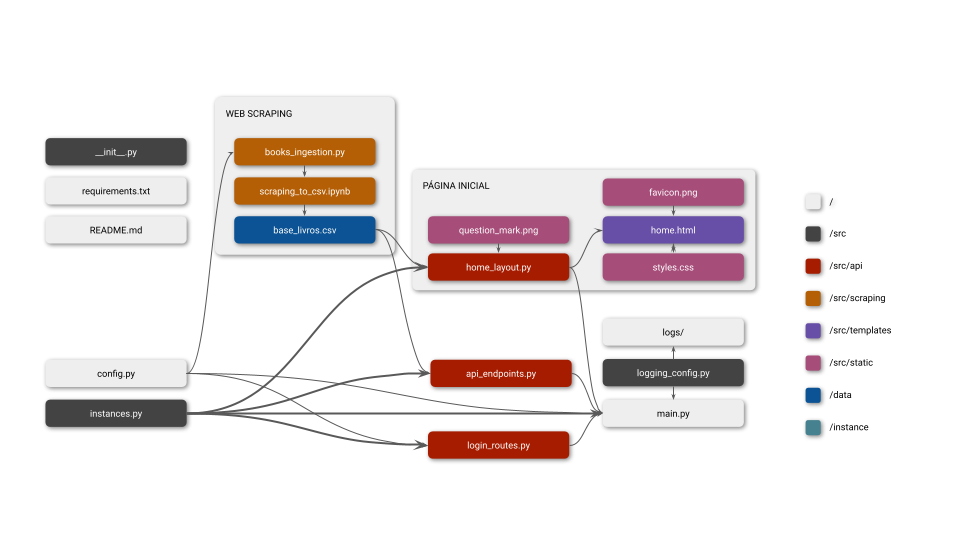
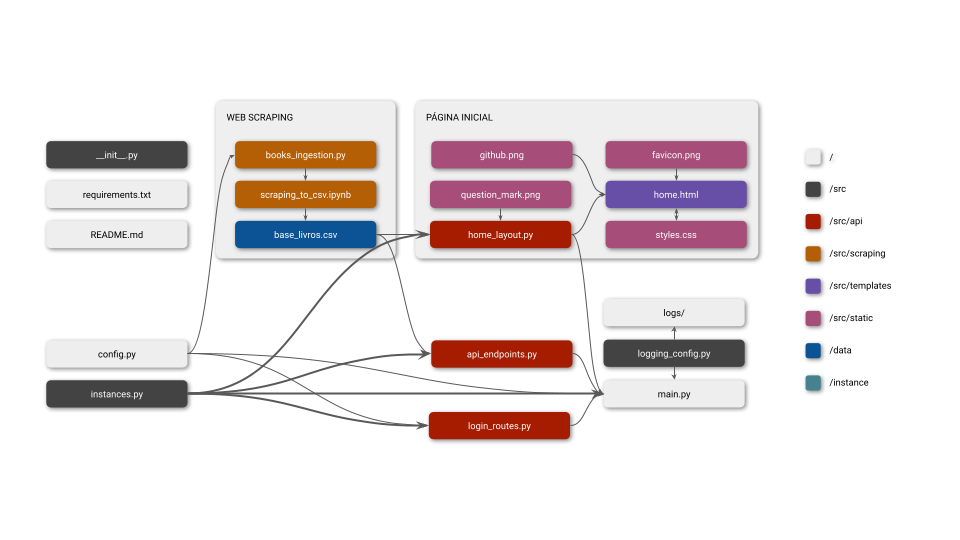
melhoria do layout e conexao com supabase no instance

Changed region(s): [[0.0312, 0.1778, 0.9375, 0.8593]]

diff --git a/src/api/api_endpoints.py b/src/api/api_endpoints.py
@@ -6,7 +6,8 @@ from flask import request, jsonify
 from flask_jwt_extended import jwt_required
 import pandas as pd
 from datetime import datetime
-from ..instances import bp
+from zoneinfo import ZoneInfo
+from ..instances import bp, supabase
 
 # ----------------------------------------------------------------------------------------------- #
 # Ler a base de dados
@@ -279,6 +280,8 @@ def get_books_price_range():
         else:
             return jsonify({'message': 'Formato de valor inválido'}), 500
     
+    df_query = df_query.sort_values('price')
+
     if df_query.shape[0] == 0:
         return jsonify({'message': 'Nenhum livro encontrado'}), 404
     
@@ -288,50 +291,52 @@ def get_books_price_range():
 # Verificar status da API e conectividade com os dados
 # ----------------------------------------------------------------------------------------------- #
 
+def check_database(supabase):
+    try:
+        supabase.table("api_request_logs").select("id").limit(1).execute()
+        return True
+    except Exception:
+        return False
+    
 @bp.route('/api/v1/health', methods=['GET'])
 def get_api_health():
     """
-    Verifica o status da API e a disponibilidade dos dados em memória.
+    Verifica o status da API e de suas dependências.
     ---
     tags:
       - API Health
     responses:
       200:
-        description: API e dependências saudáveis
-        content:
-          application/json:
-            example:
-              status: ok
-              database: ok
-              version: "1.0.0"
-              environment: development
+        description: API saudável
       503:
         description: API indisponível ou com dependências falhando
-        content:
-          application/json:
-            example:
-              status: degraded
-              database: error
-              version: "1.0.0"
-              environment: development
     """
+    tz_sp = ZoneInfo("America/Sao_Paulo")
+
     health_status = {
         "status": "ok",
         "api": "running",
+        "database": "ok",
         "data_loaded": False,
         "rows": 0,
-        "checked_at": datetime.utcnow().isoformat() + "Z"
+        "checked_at": datetime.now(tz_sp).isoformat(),
+        "version": "1.0.0",
+        "environment": "development"
     }
 
-    try:
-        if df is not None:
-            health_status["rows"] = df.shape[0]
-            health_status["data_loaded"] = not df.empty
-    except Exception as e:
-        health_status["status"] = "error"
-        health_status["error"] = str(e)
-        return jsonify(health_status), 500
+    http_status = 200
 
-    return jsonify(health_status), 200
+    # 🔹 Dados em memória
+    if df is not None and not df.empty:
+        health_status["data_loaded"] = True
+        health_status["rows"] = df.shape[0]
+    else:
+        health_status["status"] = "degraded"
 
+    # 🔹 Supabase
+    if not check_database(supabase):
+        health_status["database"] = "error"
+        health_status["status"] = "degraded"
+        http_status = 503
 
+    return jsonify(health_status), http_status

diff --git a/src/instances.py b/src/instances.py
@@ -5,11 +5,31 @@
 from flasgger import Swagger
 from flask import Blueprint
 from flask_jwt_extended import JWTManager
+from supabase import create_client
+
+from config import Config
 
 # ----------------------------------------------------------------------------------------------- #
 # Inicializar instâncias
 # ----------------------------------------------------------------------------------------------- #
 
-swagger = Swagger()
 bp = Blueprint('main', __name__)
 jwt = JWTManager()
+
+swagger = Swagger(
+    template = {
+        "securityDefinitions": {
+            "BearerAuth": {
+                "type": "apiKey",
+                "name": "Authorization",
+                "in": "header",
+                "description": "Digite: Bearer <seu_token>"
+            }
+        }
+    })
+
+# ----------------------------------------------------------------------------------------------- #
+# Conectar banco de dados
+# ----------------------------------------------------------------------------------------------- #
+
+supabase = create_client(Config.SUPABASE_URL, Config.SUPABASE_KEY)

diff --git a/src/api/login_routes.py b/src/api/login_routes.py
@@ -4,15 +4,10 @@
 
 from flask import request, jsonify, g
 from flask_jwt_extended import create_access_token, jwt_required, get_jwt_identity
-from supabase import create_client
 from werkzeug.security import generate_password_hash, check_password_hash
 from functools import wraps
 
-from ..instances import bp
-from config import Config
-
-# configurações da supabase (para armazenar os logins)
-supabase = create_client(Config.SUPABASE_URL, Config.SUPABASE_KEY)
+from ..instances import bp, supabase
 
 # ----------------------------------------------------------------------------------------------- #
 # Registrar usuário

diff --git a/main.py b/main.py
@@ -9,11 +9,10 @@ from flask import Flask
 import os
 
 from src.api import api_endpoints, home_layout, login_routes
-from src.instances import bp, swagger, jwt
+from src.instances import bp, swagger, jwt, supabase
 from src.logging_config import setup_logging, register_request_logging
 
-from config import Config, BASE_DIR, url_books
-from src.api.login_routes import supabase
+from config import Config, BASE_DIR
 
 # ----------------------------------------------------------------------------------------------- #
 # Inicializações

diff --git a/README.md b/README.md
@@ -13,6 +13,7 @@ Este aplicativo é uma **API pública** que fornece dados para realizar análise
 - **Sistema de autenticação:**<br>Baseado em JWT (JSON Web Tokens). O usuário cria suas credenciais (login e senha) e esses dados de autenticação são persistidos no Supabase (PostgreSQL). Ao realizar a autenticação, a API retorna um token que deve ser utilizado para acessar rotas protegidas via `Authorization: Bearer <token>`
 - **Documentação:**<br>Obtida automaticamente com Swagger
 - **Registro de logs:**<br>As requisições dos usuários são registradas em uma tabela no Supabase para análises de uso da API
+- **Monitoramento**<br>A API é monitorada no [UptimeRobot](https://uptimerobot.com/), que executa o endpoint `/api/v1/health` a cada 5 minutos para evitar cold start do app
 
 ## 📐 Arquitetura
 ![Plano arquitetural](diagrams/plano_arquitetural.png)
@@ -109,6 +110,7 @@ print(access_token)
 ```
 
 ### 3. Usar token de acesso para obter a lista de livros
+***Obs:** no `/apidocs`, o token deve ser usado no botão verde "Authorize" (canto superior direito do Swagger) no formato Bearer <token> (sem o <>)*
 ```python
 header = {'Authorization': f"Bearer {access_token}"}
 endpoint_livros = f"{url}/api/v1/books"
@@ -149,6 +151,12 @@ search = f"{url}/api/v1/books/search"
 resp = requests.get(search, params = params).json()
 print(resp)
 ```
+
+## 💻 Executando o projeto localmente
+*Em breve*
+- Clonar o repositório
+- Configurar Supabase
+
 ## 🚀 Evolução da API
 
 **Outros endpoints para sistema de autenticação**
